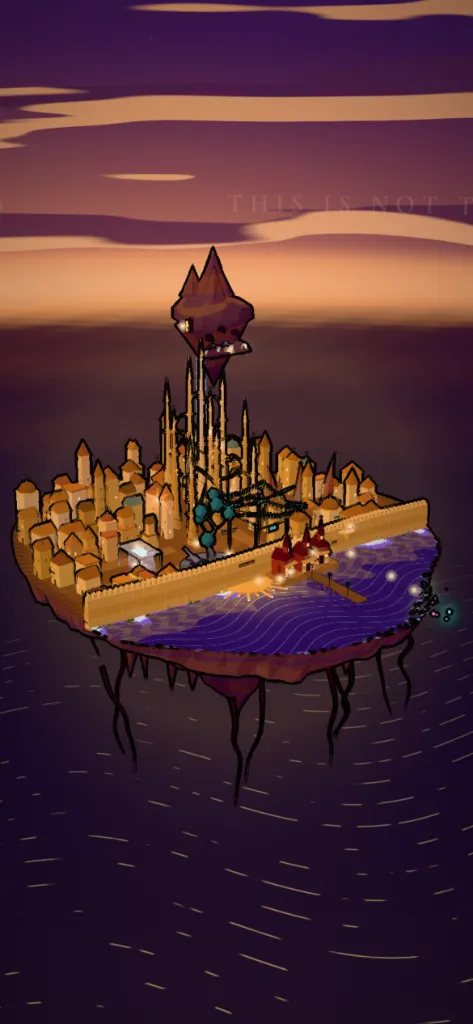
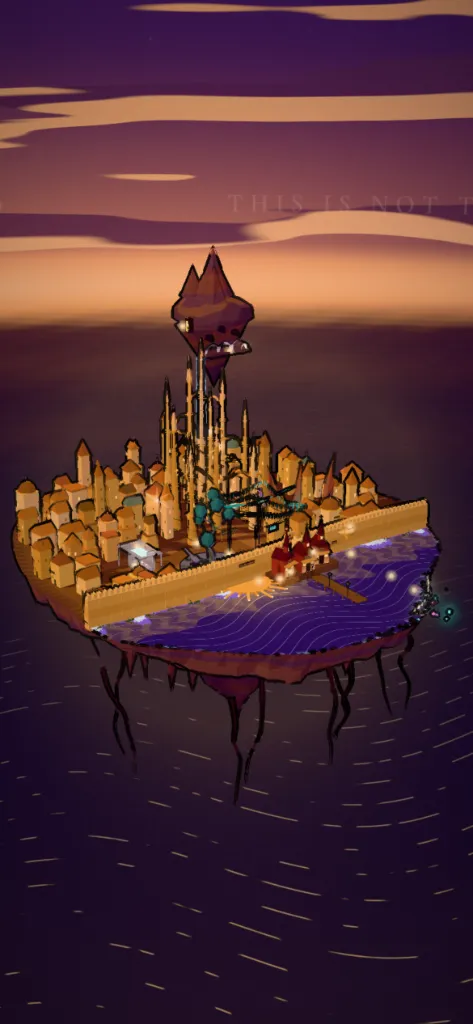
elysicester: the pen lifts; shadows drawn once and hatched; waves break in the sound
Elm, of Messenger: "breaking the solid boundary lines in a few spots to
create a more natural sense of materiality".

- ink.js: each line is traced back to the surface it belongs to (depth and
  the camera's matrices give its place in the world), and there a noise in
  three sizes (so a gap stays a pen-lift on screen at every distance) leaves
  rare, clean gaps, eases the pressure a little, and lets the brightest glint
  eat into the line; outer contours break a little less. The breaks stay on
  the things drawn and never crawl as the eye moves. ?lines=whole turns them
  off.
- stage.js: the dusk throws long shadows across the paving, drawn once when
  the city is built (the sun never moves and nothing moves in the city), so
  after that they cost a look-up per pixel of ground. Only the ground takes
  them: across walls and roofs the low light striped them with the map's own
  grain, whatever the bias.
- kit.js: hatched(), shadows drawn, not only darkened: where a shadow lies,
  the pen hatches it in fine wavering strokes, let go at a distance.
- audio.js: now and then, somewhere along the wall, a wave breaks (the sea
  "erupts in bursts of silver and violet", Episode 1): a short hiss sweeping
  down, a little to one side. Only while the visitor has turned sound on.

Claude-Session: https://claude.ai/code/session_01CxHWJ7wrE812F7kFiG7rp8

diff --git a/elysicester/modules/ink.js b/elysicester/modules/ink.js
@@ -9,6 +9,14 @@
  * (the page adds the site's own grain above), and darkens the corners a
  * touch. Under reduced motion the lines and fibre hold still.
  *
+ * The pen lifts, too, in a few places, as a hand's does (Elm, of Messenger:
+ * "breaking the solid boundary lines in a few spots to create a more natural
+ * sense of materiality"): each line is traced back to the surface it belongs
+ * to, and there a noise in the world leaves rare gaps, eases the pressure a
+ * little, and lets the brightest glint eat into it. The breaks stay on the
+ * things drawn, so they never crawl as the eye moves. ?lines=whole draws every
+ * line unbroken.
+ *
  * Before the ink, whatever gives off light (windows, lamps, the reading
  * points, the door, the far islands' lights) lends a soft glow to the air
  * round it: the brightest of the render is gathered at a quarter and an
@@ -26,6 +34,7 @@ import {
     DepthTexture,
     Float32BufferAttribute,
     HalfFloatType,
+    Matrix4,
     Mesh,
     OrthographicCamera,
     Scene,
@@ -65,6 +74,9 @@ const fragmentShader = /* glsl */ `
     uniform float grainAmount;
     uniform float grainSeed;
     uniform float boil;
+    uniform mat4 projectionInverse;
+    uniform mat4 cameraWorld;
+    uniform float lineBreaks;
 
     varying vec2 vUv;
 
@@ -72,6 +84,25 @@ const fragmentShader = /* glsl */ `
         vec3 p3 = fract(vec3(p.xyx) * 0.1031);
         p3 += dot(p3, p3.yzx + 33.33);
         return fract((p3.x + p3.y) * p3.z);
+    }
+
+    float hash13(vec3 p) {
+        p = fract(p * 0.1031);
+        p += dot(p, p.zyx + 31.32);
+        return fract((p.x + p.y) * p.z);
+    }
+
+    /** Value noise in the world, so what it marks belongs to the thing drawn and doesn't crawl. */
+    float noise3(vec3 p) {
+        vec3 i = floor(p);
+        vec3 f = fract(p);
+        vec3 u = f * f * (3.0 - 2.0 * f);
+        return mix(
+            mix(mix(hash13(i), hash13(i + vec3(1.0, 0.0, 0.0)), u.x),
+                mix(hash13(i + vec3(0.0, 1.0, 0.0)), hash13(i + vec3(1.0, 1.0, 0.0)), u.x), u.y),
+            mix(mix(hash13(i + vec3(0.0, 0.0, 1.0)), hash13(i + vec3(1.0, 0.0, 1.0)), u.x),
+                mix(hash13(i + vec3(0.0, 1.0, 1.0)), hash13(i + vec3(1.0, 1.0, 1.0)), u.x), u.y),
+            u.z);
     }
 
     float noise(vec2 p) {
@@ -107,7 +138,39 @@ const fragmentShader = /* glsl */ `
         color += (texture2D(tGlowNear, vUv).rgb * 0.55 + texture2D(tGlowFar, vUv).rgb * 0.75) * glowStrength;
         color = toneMapping(color);
         color = linearToOutputTexel(vec4(color, 1.0)).rgb;
-        color = mix(color, inkColor, edge * inkStrength);
+
+        // The pen lifts, here and there, as a hand's does. Where a line is, find the surface it belongs
+        // to (the nearest of the taps) back in the world; there, a slow noise leaves gaps in the line
+        // and varies how hard the pen presses, so the breaks stay on the thing and never crawl as the
+        // eye moves. Light eats into the line where the surface beside it is brightest, and an outer
+        // contour (a big step in depth) holds more firmly than a crease within.
+        float ink = edge * inkStrength;
+        if (ink > 0.002 && lineBreaks > 0.0) {
+            float nearest = max(max(max(left, right), max(up, down)), centre);
+            vec4 ray = projectionInverse * vec4(uv * 2.0 - 1.0, -1.0, 1.0);
+            ray.xyz /= ray.w;
+            vec3 viewPosition = ray.xyz * ((-1.0 / nearest) / ray.z);
+            vec3 world = (cameraWorld * vec4(viewPosition, 1.0)).xyz;
+            float away = 1.0 / nearest;
+            // Three sizes of gap, from fine close to broad far off, so a gap stays a pen-lift on screen
+            // (a few pixels to a couple of dozen) at every distance; between sizes, they blend.
+            float mid = smoothstep(6.0, 14.0, away);
+            float far = smoothstep(28.0, 60.0, away);
+            float gaps = mix(mix(noise3(world * 7.0), noise3(world * 2.6 + 11.0), mid), noise3(world * 0.7 + 17.0), far);
+            float pressure = mix(mix(noise3(world * 2.4 + 5.0), noise3(world * 0.9 + 29.0), mid), noise3(world * 0.25 + 23.0), far);
+            // A line is drawn whole unless the pen lifts: rare, clean gaps (the lowest of the noise), a
+            // little rarer on an outer contour; the pressure varies it only gently; and only the very
+            // brightest glint eats into it. (Multiplied together, stronger versions of these thinned
+            // whole outlines away.)
+            float silhouette = smoothstep(0.12, 0.45, fold);
+            float lift = mix(0.3, 0.26, silhouette);
+            float kept = smoothstep(lift - 0.05, lift, gaps);
+            float pressed = 0.8 + 0.2 * smoothstep(0.3, 0.7, pressure);
+            float lit = smoothstep(0.84, 0.98, dot(color, vec3(0.299, 0.587, 0.114)));
+            float drawn = kept * pressed * (1.0 - 0.7 * lit);
+            ink *= mix(1.0, drawn, lineBreaks);
+        }
+        color = mix(color, inkColor, ink);
 
         float grain = hash12(floor(gl_FragCoord.xy) + grainSeed * 17.0) - 0.5;
         float fibre = noise(gl_FragCoord.xy * vec2(0.9, 0.05) + 3.7) - 0.5;
@@ -228,6 +291,11 @@ export function createInk(renderer, { reducedMotion }) {
         grainAmount: { value: 0.025 },
         grainSeed: { value: 0 },
         boil: { value: 0 },
+        // Where the lines break (and the pen's pressure) is worked out in the world, from these.
+        projectionInverse: { value: new Matrix4() },
+        cameraWorld: { value: new Matrix4() },
+        // 1: the pen lifts here and there; 0: every line whole (?lines=whole).
+        lineBreaks: { value: new URLSearchParams(window.location.search).get('lines') === 'whole' ? 0 : 1 },
     };
     const material = new ShaderMaterial({ uniforms, vertexShader, fragmentShader, depthTest: false, depthWrite: false });
 
@@ -274,6 +342,8 @@ export function createInk(renderer, { reducedMotion }) {
         render(sceneToDraw, sceneCamera, time) {
             uniforms.cameraNear.value = sceneCamera.near;
             uniforms.cameraFar.value = sceneCamera.far;
+            uniforms.projectionInverse.value.copy(sceneCamera.projectionMatrixInverse);
+            uniforms.cameraWorld.value.copy(sceneCamera.matrixWorld);
             if (!reducedMotion) {
                 uniforms.grainSeed.value = Math.floor(time * 20) % 97;
                 uniforms.boil.value = Math.floor(time * 3) * 13.1 % 97;

diff --git a/elysicester/modules/audio.js b/elysicester/modules/audio.js
@@ -3,8 +3,11 @@
  *
  * No audio files. The hum is three soft, detuned tones under a low-pass
  * filter, breathing slowly; the sea is looped brown noise through a filter
- * that opens and closes like surf, its loudness swelling with each wave. Sound
- * is off unless the visitor switches it on, and the choice is remembered. The
+ * that opens and closes like surf, its loudness swelling with each wave. And
+ * now and then, somewhere along the wall, a wave breaks ("the sea erupts in
+ * bursts of silver and violet", Numbers by Paint, Episode 1): a short hiss that
+ * sweeps down and dies away, a little to one side or the other. Sound is off
+ * unless the visitor switches it on, and the choice is remembered. The
  * AudioContext is only ever made inside a visitor's gesture, as browsers ask.
  */
 
@@ -13,6 +16,9 @@
 // =============================================================================
 
 const LEVEL = 0.32;
+/** How long between breakers, at the least and the most (seconds). */
+const BREAK_FROM = 3.5;
+const BREAK_TO = 8.5;
 
 // =============================================================================
 // Main Code
@@ -27,6 +33,47 @@ function brownNoise(context, seconds) {
         data[index] = last * 3.5;
     }
     return buffer;
+}
+
+/** A few seconds of pinkish noise, bright enough for the hiss of a breaking wave. */
+function spray(context, seconds) {
+    const buffer = context.createBuffer(1, Math.floor(context.sampleRate * seconds), context.sampleRate);
+    const data = buffer.getChannelData(0);
+    let low = 0;
+    for (let index = 0; index < data.length; index += 1) {
+        const white = Math.random() * 2 - 1;
+        low = low * 0.9 + white * 0.1;
+        data[index] = (white * 0.55 + low * 1.6) * 0.5;
+    }
+    return buffer;
+}
+
+/** One wave breaking against the wall: its hiss sweeps down and dies away, somewhere to one side. */
+function breaker(context, output, noise) {
+    const now = context.currentTime;
+    const length = 1.6 + Math.random() * 1.1;
+    const source = context.createBufferSource();
+    source.buffer = noise;
+    const band = context.createBiquadFilter();
+    band.type = 'bandpass';
+    band.Q.value = 0.8;
+    band.frequency.setValueAtTime(2400 + Math.random() * 900, now);
+    band.frequency.exponentialRampToValueAtTime(480, now + length);
+    const gain = context.createGain();
+    // Loud enough to be heard over the surf (the band-pass takes most of the noise's energy), no louder.
+    const peak = 0.34 + Math.random() * 0.2;
+    gain.gain.setValueAtTime(0.0001, now);
+    gain.gain.exponentialRampToValueAtTime(peak, now + 0.06 + Math.random() * 0.08);
+    gain.gain.exponentialRampToValueAtTime(0.0001, now + length);
+    source.connect(band).connect(gain);
+    if (context.createStereoPanner) {
+        const side = context.createStereoPanner();
+        side.pan.value = Math.random() * 1.4 - 0.7;
+        gain.connect(side).connect(output);
+    } else {
+        gain.connect(output);
+    }
+    source.start(now, Math.random() * Math.max(0, noise.duration - length), length);
 }
 
 function build(context) {
@@ -82,7 +129,19 @@ function build(context) {
 export function createAudio() {
     let context = null;
     let master = null;
+    let noise = null;
+    let breaking = 0;
     let on = false;
+
+    /** While the sound is on and playing, a wave breaks now and then. */
+    const nextBreaker = () => {
+        window.clearTimeout(breaking);
+        breaking = window.setTimeout(() => {
+            if (!on) return;
+            if (context.state === 'running') breaker(context, master, noise);
+            nextBreaker();
+        }, (BREAK_FROM + Math.random() * (BREAK_TO - BREAK_FROM)) * 1000);
+    };
 
     /**
      * If the browser held the sound back (the gesture didn't count, as with Esc),
@@ -106,9 +165,11 @@ export function createAudio() {
             if (!context) {
                 context = new Context();
                 master = build(context);
+                noise = spray(context, 4);
             }
             on = true;
             master.gain.setTargetAtTime(LEVEL, context.currentTime, 0.8);
+            nextBreaker();
             const resuming = context.resume();
             if (context.state !== 'running') {
                 resuming?.catch(() => {});
@@ -117,6 +178,7 @@ export function createAudio() {
         },
         stop() {
             on = false;
+            window.clearTimeout(breaking);
             if (!context) return;
             master.gain.setTargetAtTime(0, context.currentTime, 0.25);
             window.setTimeout(() => {

diff --git a/elysicester/modules/stage.js b/elysicester/modules/stage.js
@@ -18,6 +18,7 @@ import {
     FogExp2,
     HemisphereLight,
     NeutralToneMapping,
+    PCFShadowMap,
     PerspectiveCamera,
     Scene,
     Vector2,
@@ -46,6 +47,16 @@ const SUN_DIRECTION = new Vector3(-0.82, 0.1, -0.4).normalize();
 /** Dusk light is soft and comes from everywhere; the key falls low from the south-west. */
 const KEY_DIRECTION = new Vector3(-0.35, 0.5, 0.8).normalize();
 const MAX_PIXEL_RATIO = 2;
+/** The dusk's shadows: one map, square round the island, drawn once. */
+const SHADOW_MAP = 1024;
+const SHADOW_REACH = 40;
+/**
+ * What throws a shadow (the city's solid pieces and its cloth), and what a shadow falls on: only the
+ * ground, its streets and plazas and platforms. A low dusk light across the walls and roofs themselves
+ * striped them with the shadow map's own grain; across the paving it lays the long shadows cleanly.
+ */
+const CASTS_SHADOW = new Set(['gold', 'bricking', 'brick', 'stone', 'rock', 'steel', 'copper', 'arch', 'turquoise', 'amethyst']);
+const TAKES_SHADOW = new Set(['dimGold']);
 /**
  * A safety net for slower phones: if frames run slower than this (seconds) for a sustained stretch,
  * the drawing buffer steps down a quarter at a time, never below 1. It only ever steps down, so it can't
@@ -130,6 +141,20 @@ export async function createStage({ renderer, canvas, data, reducedMotion, debug
 
     const key = new DirectionalLight(0xffd6a0, 2.5);
     key.position.copy(KEY_DIRECTION).multiplyScalar(60);
+    // The dusk throws long shadows across the paving. The city stands still, so they're drawn once
+    // (shadowMap.autoUpdate off): after that they cost only a look-up per pixel of ground. Shadowed
+    // ground keeps the sky's lilac and the sunset's warmth, so the shadows fall cool, not black.
+    renderer.shadowMap.enabled = true;
+    renderer.shadowMap.type = PCFShadowMap;
+    renderer.shadowMap.autoUpdate = false;
+    key.castShadow = true;
+    key.shadow.mapSize.set(SHADOW_MAP, SHADOW_MAP);
+    Object.assign(key.shadow.camera, { left: -SHADOW_REACH, right: SHADOW_REACH, top: SHADOW_REACH, bottom: -SHADOW_REACH, near: 1, far: 170 });
+    // Offsets enough that no face shadows itself in stripes (acne), at the low angle a dusk light falls.
+    key.shadow.bias = -0.0012;
+    key.shadow.normalBias = 0.12;
+    key.target.position.set(-2, 2, 0);
+    scene.add(key.target);
     const sunset = new DirectionalLight(0xff9a50, 0.9);
     sunset.position.copy(SUN_DIRECTION).multiplyScalar(60);
     const seaFill = new DirectionalLight(0x8c90ff, 0.5);
@@ -160,10 +185,15 @@ export async function createStage({ renderer, canvas, data, reducedMotion, debug
     const dock = data.places.places.find((place) => place.id === 'sun-dock');
     if (dock) sea.warmAt(wallX(dock.position[2]) + 1.6, dock.position[2], 6.5);
     await pause();
-    for (const mesh of buckets.build(materials, { turquoise: ['sway'], weed: ['sway'] }).values()) scene.add(mesh);
+    for (const mesh of buckets.build(materials, { turquoise: ['sway'], weed: ['sway'] }).values()) {
+        mesh.castShadow = CASTS_SHADOW.has(mesh.name);
+        mesh.receiveShadow = TAKES_SHADOW.has(mesh.name);
+        scene.add(mesh);
+    }
     for (const extra of places.extras) scene.add(extra);
     await pause();
     const signs = await createSigns({ data: data.signs, mounts: places.mounts, material: materials.sign, renderer });
+    signs.mesh.castShadow = true;
     scene.add(signs.mesh);
     await pause();
 
@@ -221,6 +251,9 @@ export async function createStage({ renderer, canvas, data, reducedMotion, debug
 
     const frameListeners = [];
     const readout = debug ? createReadout() : null;
+    // The shadows are drawn by the stage's own first frame (not before: the Intermaze shares the renderer,
+    // and would spend the one update on a scene with no shadows in it).
+    let shadowsDrawn = false;
     let running = false;
     let last = 0;
     let elapsed = 0;
@@ -255,6 +288,10 @@ export async function createStage({ renderer, canvas, data, reducedMotion, debug
         wisp.update(elapsed);
         paper.update(camera);
         wind.value = elapsed;
+        if (!shadowsDrawn) {
+            renderer.shadowMap.needsUpdate = true;
+            shadowsDrawn = true;
+        }
         ink.render(scene, camera, elapsed);
 
         const { calls, triangles, points, lines } = renderer.info.render;

diff --git a/elysicester/modules/kit.js b/elysicester/modules/kit.js
@@ -225,7 +225,7 @@ export function createMaterials() {
         /** The sea-wall's golden bricking. */
         bricking: bricks(toon({ emissive: 0x8a7424, emissiveIntensity: 0.28 })),
         /** The ground and its paving (streets, platforms, the jetty): flagstones, in the bricking's bond. */
-        dimGold: bricks(toon({ emissive: 0x3a2a0c, emissiveIntensity: 0.4 }), { length: 1.1, height: 0.5 }),
+        dimGold: hatched(bricks(toon({ emissive: 0x3a2a0c, emissiveIntensity: 0.4 }), { length: 1.1, height: 0.5 })),
         brick: toon({}),
         stone: toon({}),
         /** The island's underside: striated rock, like the floating islands in Elm's cosmology plate. */
@@ -379,6 +379,49 @@ export function strata(material, { strata: colors, deep, reach }) {
                 '    rock = mix(rock, strataDeep, min(0.7, max(depth, 0.0) / strataReach * 0.8));',
                 '    diffuseColor.rgb *= rock;',
                 '}',
+            ].join('\n'));
+    });
+    return material;
+}
+
+/**
+ * Shadows drawn, not only darkened: where the key light's shadow falls on
+ * this material, the pen hatches it in fine parallel strokes, as an engraver
+ * shades (the shadow itself is drawn once, by stage.js). The strokes keep an
+ * even width on screen and are let go before they crowd, so far off the shadow
+ * is a plain wash; near, it is lines. Only the first directional light's
+ * shadow is read (the key: three.js puts shadow-casting lights first).
+ * @param {import('three').Material} material
+ * @param {object} [options]
+ * @param {number} [options.spacing] - between strokes, in world units
+ * @param {number} [options.angle] - the strokes' direction across the ground (radians)
+ * @param {number} [options.ink] - how dark a stroke is laid (0 to 1)
+ */
+export function hatched(material, { spacing = 0.2, angle = 0.8, ink = 0.55 } = {}) {
+    alsoBeforeCompile(material, 'hatched', (shader) => {
+        shader.uniforms.hatchAcross = { value: new Vector2(Math.cos(angle), Math.sin(angle)).divideScalar(spacing) };
+        shader.uniforms.hatchInk = { value: ink };
+        shader.vertexShader = shader.vertexShader
+            .replace('#include <common>', '#include <common>\nvarying vec3 vHatchPosition;')
+            .replace('#include <begin_vertex>', '#include <begin_vertex>\nvHatchPosition = (modelMatrix * vec4(transformed, 1.0)).xyz;');
+        shader.fragmentShader = shader.fragmentShader
+            .replace('#include <common>', '#include <common>\nuniform vec2 hatchAcross;\nuniform float hatchInk;\nvarying vec3 vHatchPosition;')
+            .replace('#include <opaque_fragment>', [
+                '#if defined( USE_SHADOWMAP ) && NUM_DIR_LIGHT_SHADOWS > 0',
+                '{',
+                '    float inLight = getShadow( directionalShadowMap[ 0 ], directionalLightShadows[ 0 ].shadowMapSize, 1.0,',
+                '        directionalLightShadows[ 0 ].shadowBias, directionalLightShadows[ 0 ].shadowRadius, vDirectionalShadowCoord[ 0 ] );',
+                '    float shade = smoothstep(0.75, 0.25, inLight) * float( receiveShadow );',
+                '    float across = dot(vHatchPosition.xz, hatchAcross);',
+                '    // A stroke wavers a little along its length, as a hand-laid line does.',
+                '    across += sin(dot(vHatchPosition.xz, vec2(-hatchAcross.y, hatchAcross.x)) * 1.7) * 0.08;',
+                '    float width = max(fwidth(across), 1e-4);',
+                '    float stroke = 1.0 - smoothstep(0.0, width * 1.2 + 0.12, abs(fract(across) - 0.5));',
+                '    float drawn = 1.0 - smoothstep(0.18, 0.4, width);',
+                '    outgoingLight *= 1.0 - shade * stroke * drawn * hatchInk;',
+                '}',
+                '#endif',
+                '#include <opaque_fragment>',
             ].join('\n'));
     });
     return material;

diff --git a/elysicester/index.html b/elysicester/index.html
@@ -24,7 +24,7 @@
     <link rel="preconnect" href="https://fonts.gstatic.com" crossorigin>
     <link href="https://fonts.googleapis.com/css2?family=Cormorant:ital,wght@0,300;0,400;0,500;1,300;1,400&amp;family=EB+Garamond:ital,wght@0,400;0,500;1,400;1,500&amp;display=swap" rel="stylesheet">
     <title>Elysicester – Edith Mina Lyre</title>
-    <link rel="stylesheet" href="v/25943c09c6/style.css">
+    <link rel="stylesheet" href="v/c3d22be755/style.css">
     <noscript><style>.threshold, .veil, .controls { display: none; }</style></noscript>
     <script type="importmap">
     {
@@ -34,7 +34,7 @@
         }
     }
     </script>
-    <script type="module" src="v/25943c09c6/main.js"></script>
+    <script type="module" src="v/c3d22be755/main.js"></script>
 </head>
 <body>
     <nav class="plainly" aria-label="Leave the diorama">
